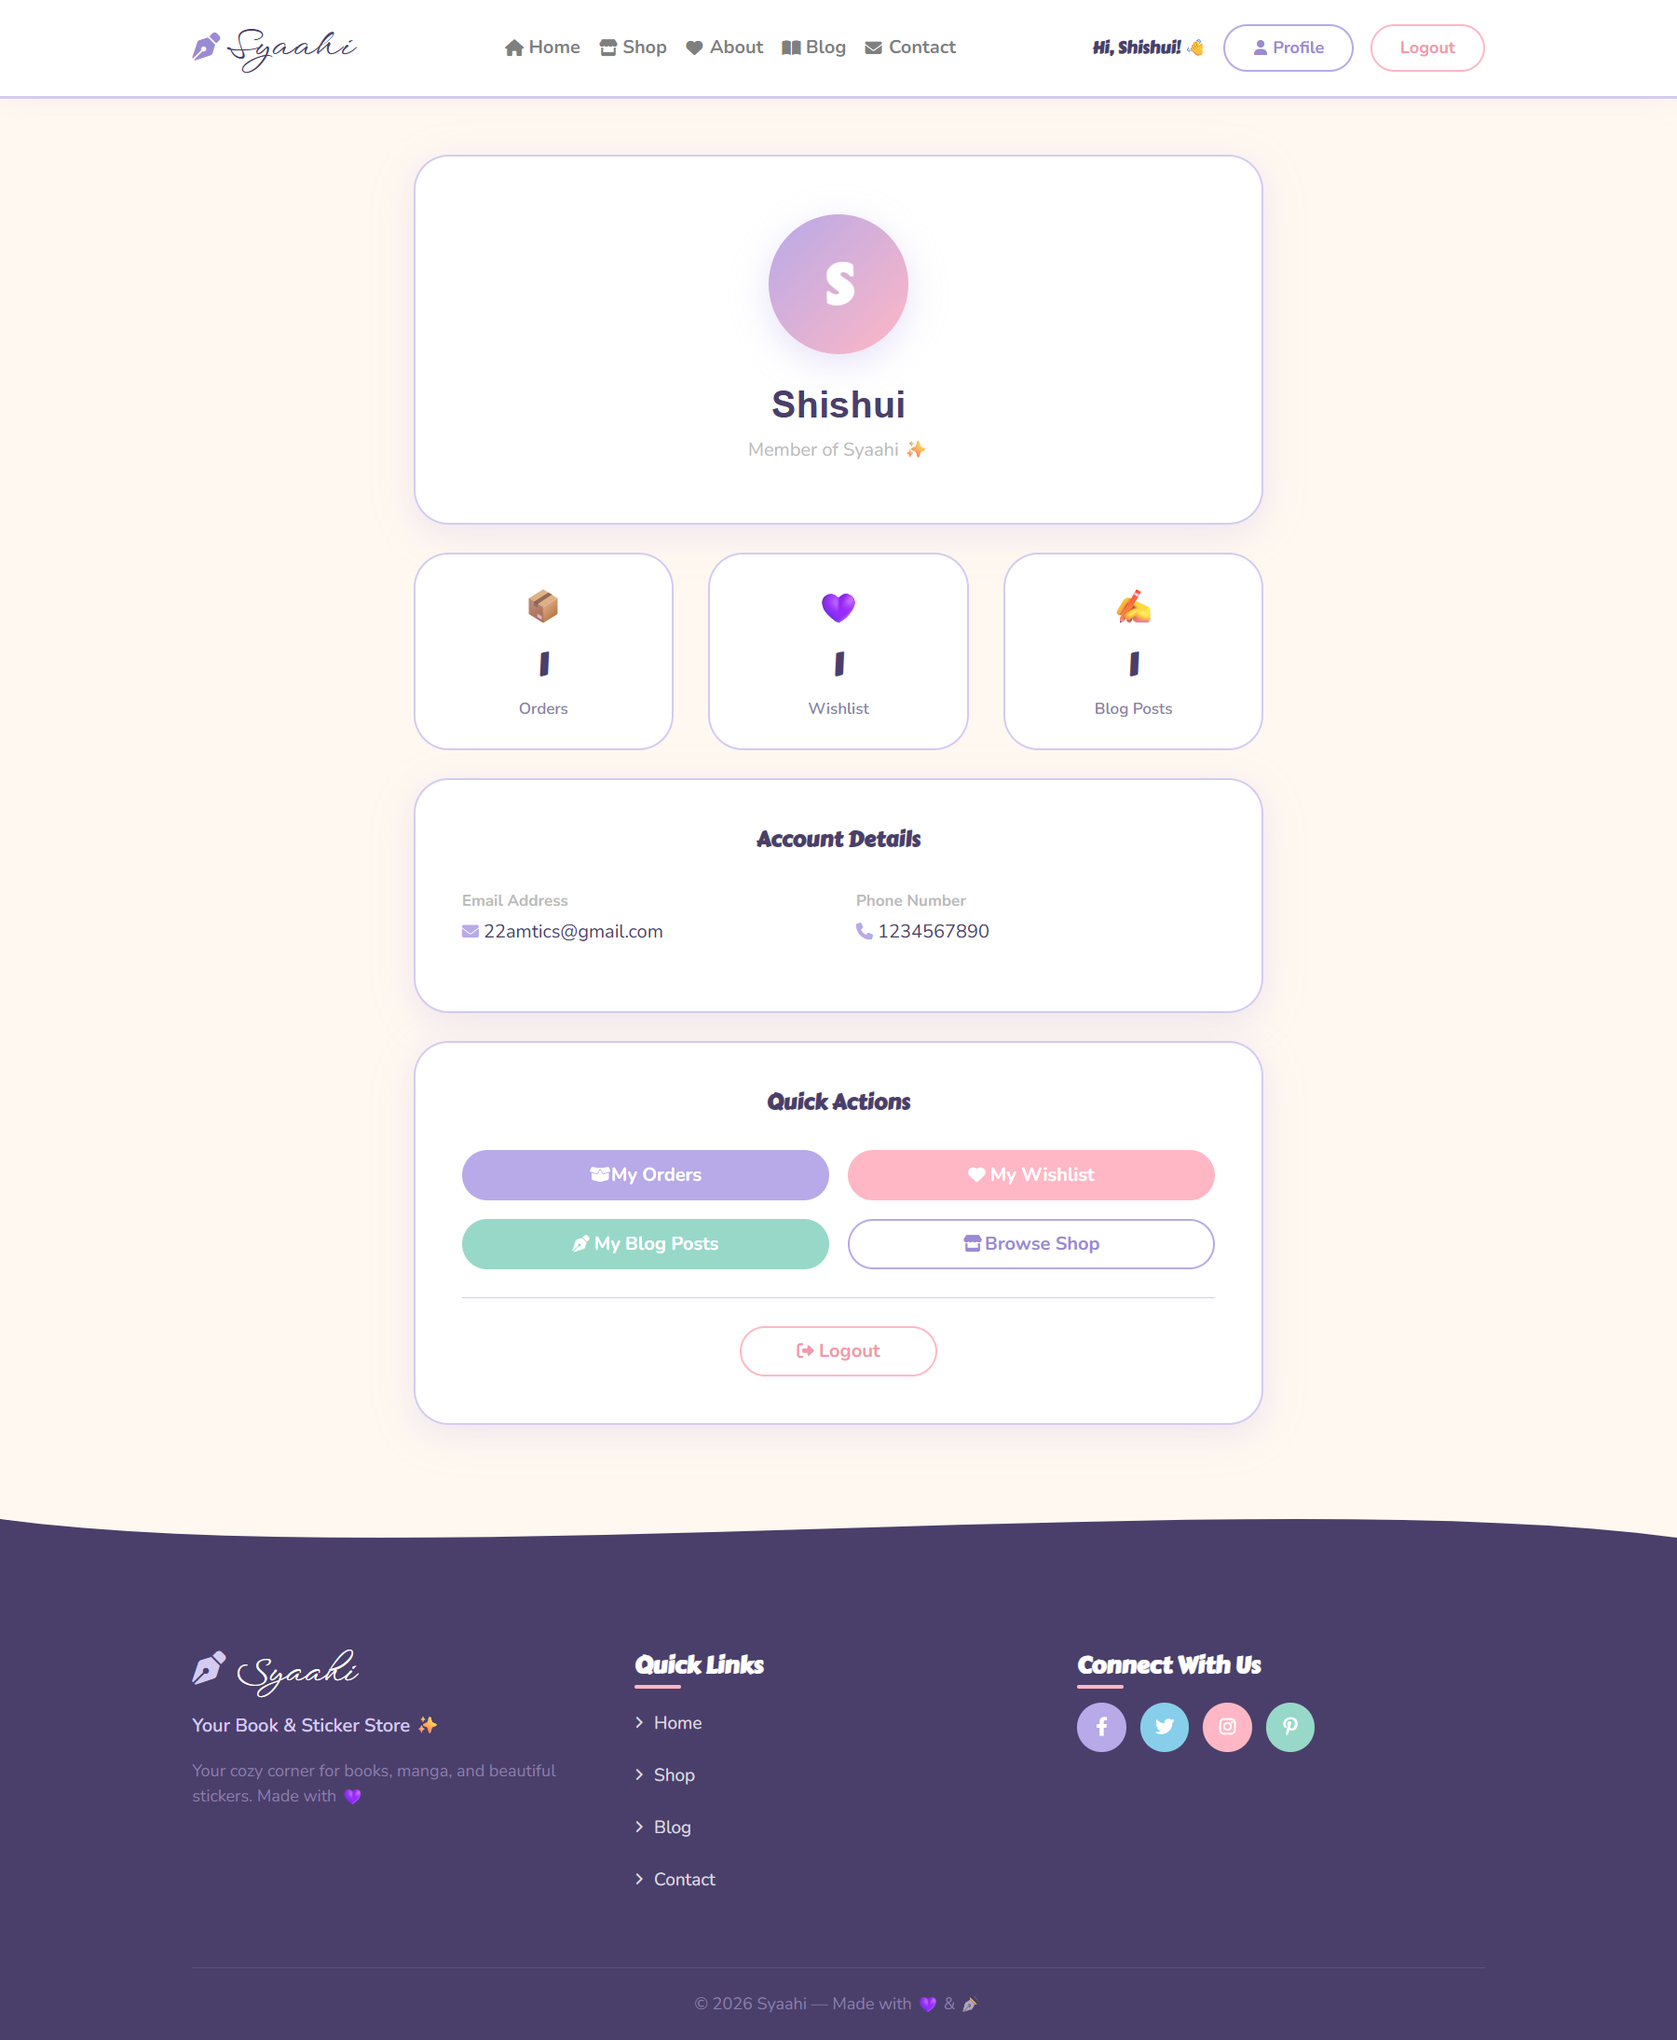
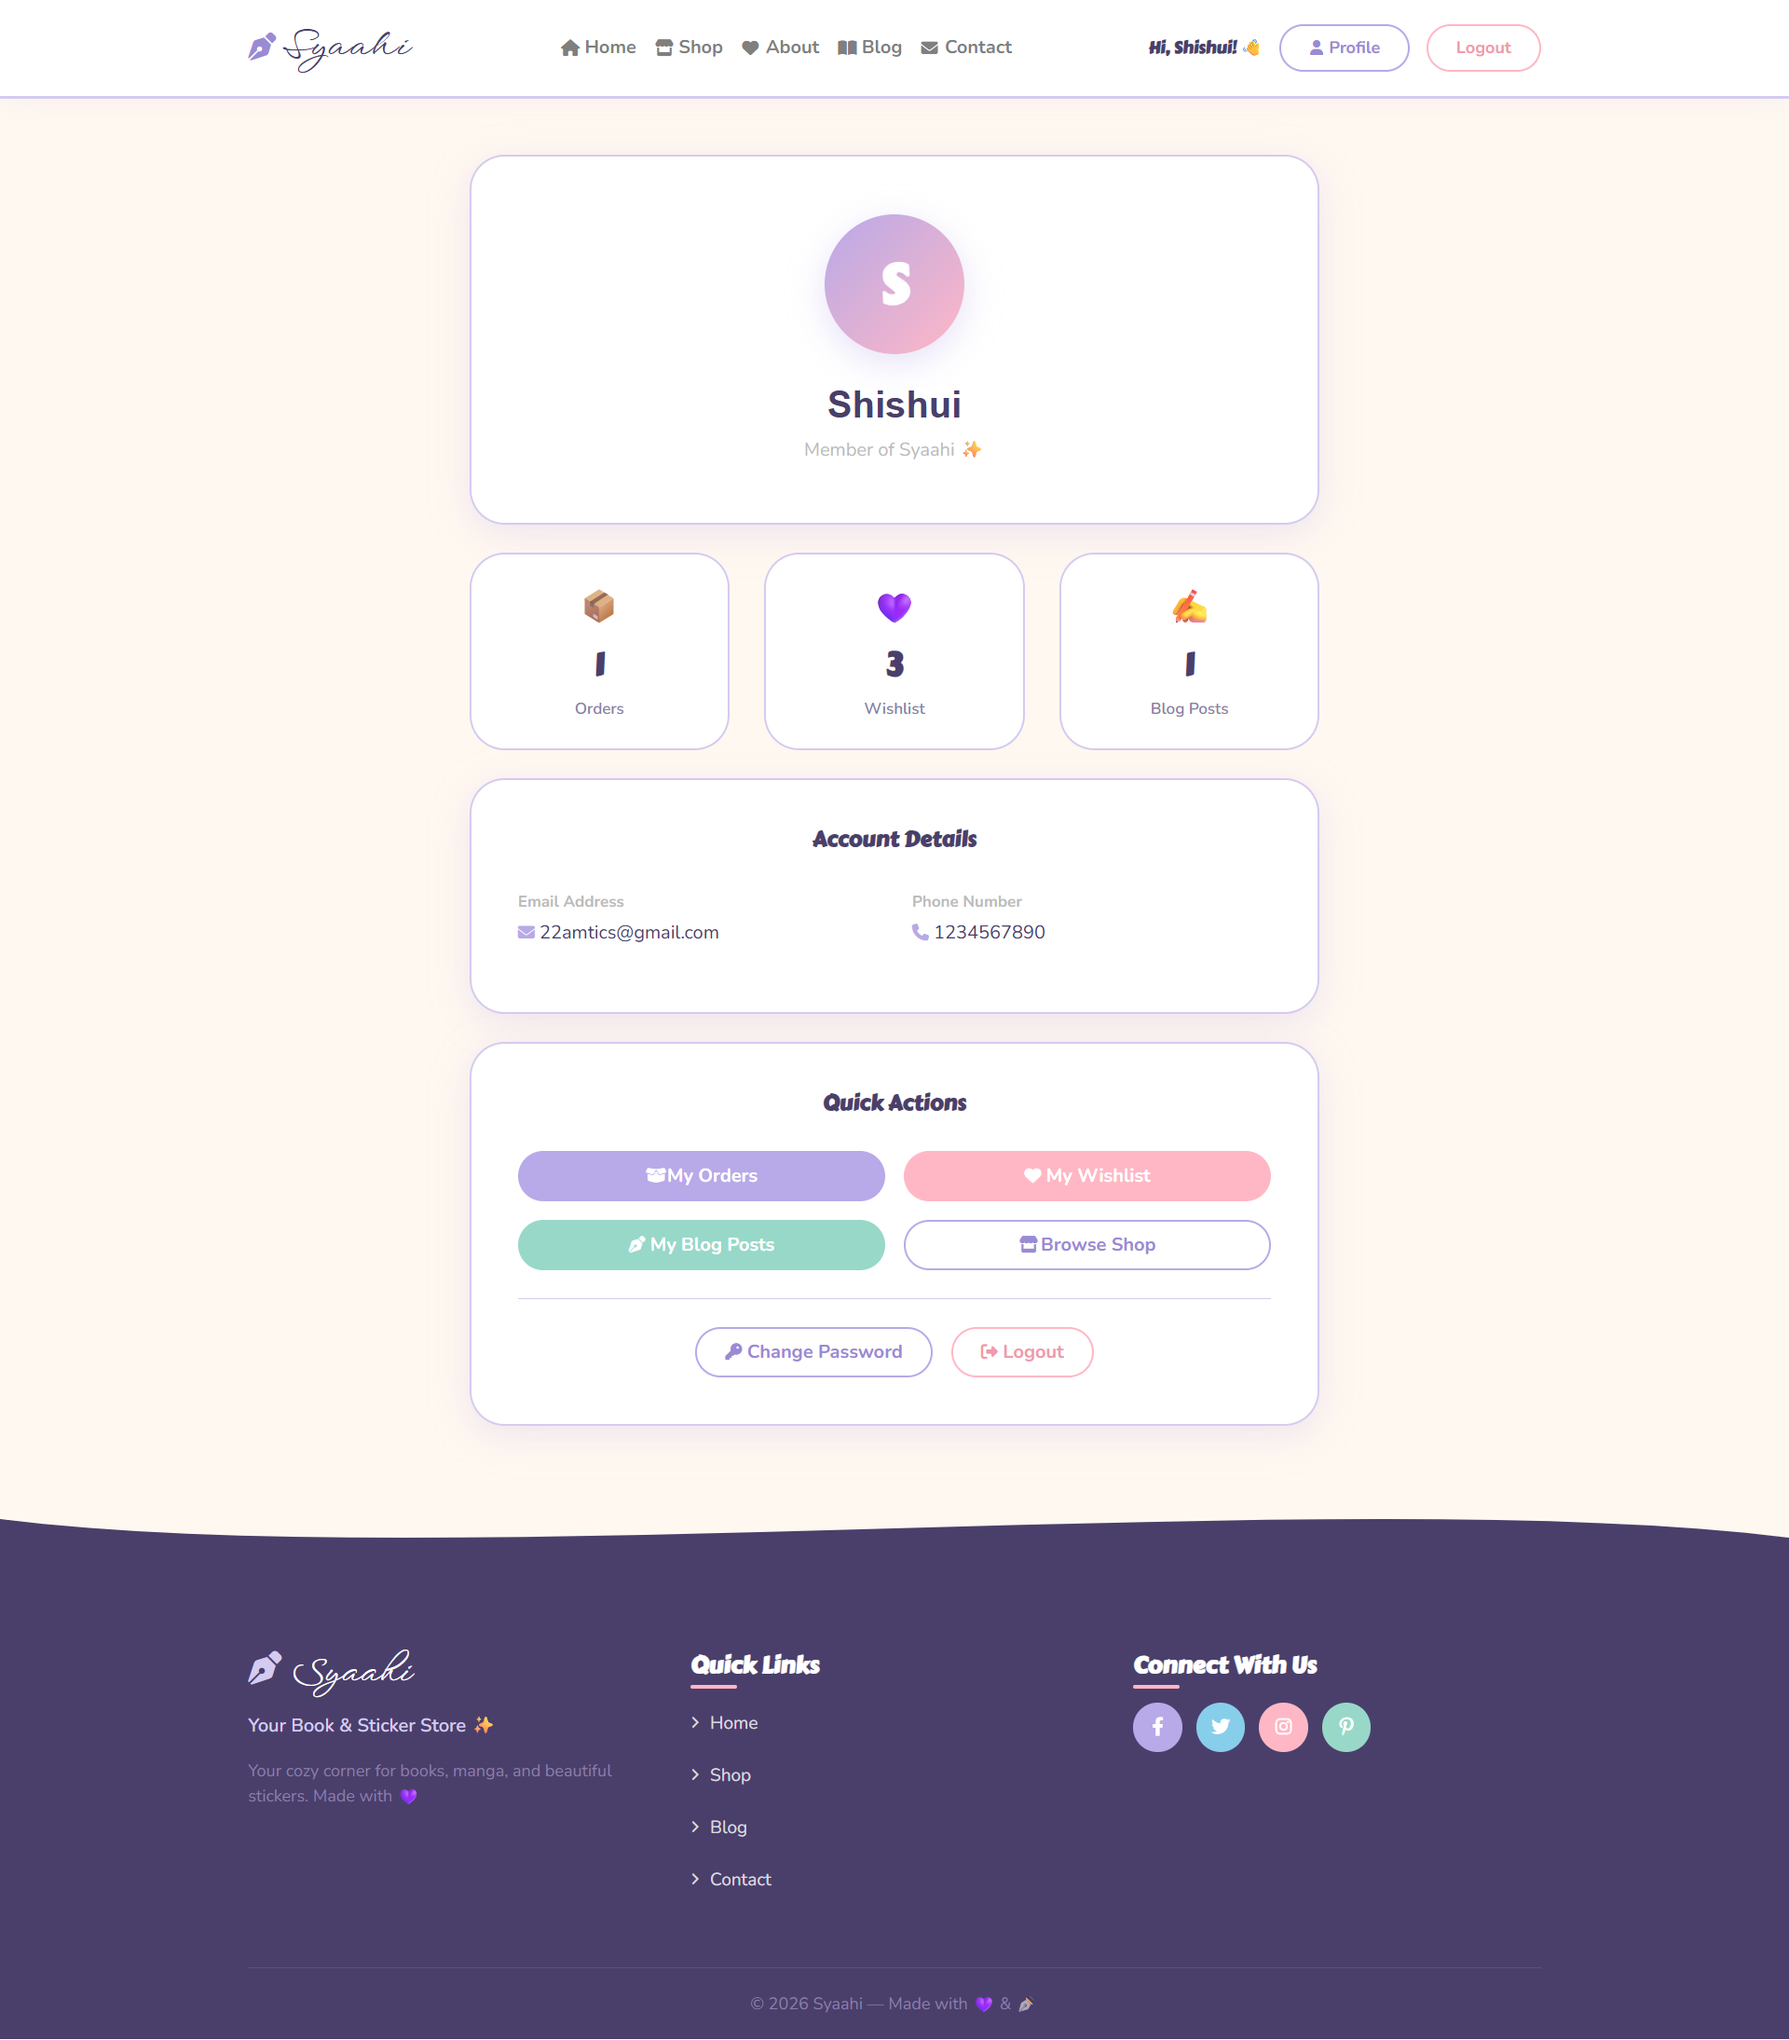
Organize screenshots in README and add delete-blog.png

diff --git a/README.md b/README.md
@@ -124,171 +124,15 @@ If you have any questions or suggestions, feel free to contact me. I'd be happy 
 ## 🖥 Screenshots
 
 <details>
-<summary><b>Click to view all 29 Screenshots! 📸</b></summary>
+<summary><b>Click to view all 30 Screenshots! 📸</b></summary>
 
 <div align="center">
   <table>
     <tr>
-      <td align="center">
-        <img src="src/assets/img/screenshots/about.png" alt="ABOUT" width="400">
-        <br/>
-        <em>ABOUT</em>
-      </td>
-      <td align="center">
-        <img src="src/assets/img/screenshots/admin-add-categories.png" alt="ADMIN ADD CATEGORIES" width="400">
-        <br/>
-        <em>ADMIN ADD CATEGORIES</em>
-      </td>
-    </tr>
-    <tr>
-      <td align="center">
-        <img src="src/assets/img/screenshots/admin-addproduct.png" alt="ADMIN ADDPRODUCT" width="400">
-        <br/>
-        <em>ADMIN ADDPRODUCT</em>
-      </td>
-      <td align="center">
-        <img src="src/assets/img/screenshots/admin-admin.png" alt="ADMIN ADMIN" width="400">
-        <br/>
-        <em>ADMIN ADMIN</em>
-      </td>
-    </tr>
-    <tr>
-      <td align="center">
-        <img src="src/assets/img/screenshots/admin-categories-deltre-popup.png" alt="ADMIN CATEGORIES DELTRE POPUP" width="400">
-        <br/>
-        <em>ADMIN CATEGORIES DELTRE POPUP</em>
-      </td>
-      <td align="center">
-        <img src="src/assets/img/screenshots/admin-categories.png" alt="ADMIN CATEGORIES" width="400">
-        <br/>
-        <em>ADMIN CATEGORIES</em>
-      </td>
-    </tr>
-    <tr>
-      <td align="center">
-        <img src="src/assets/img/screenshots/admin-comment.png" alt="ADMIN COMMENT" width="400">
-        <br/>
-        <em>ADMIN COMMENT</em>
-      </td>
-      <td align="center">
-        <img src="src/assets/img/screenshots/admin-dashboard.png" alt="ADMIN DASHBOARD" width="400">
-        <br/>
-        <em>ADMIN DASHBOARD</em>
-      </td>
-    </tr>
-    <tr>
-      <td align="center">
-        <img src="src/assets/img/screenshots/admin-editprofile.png" alt="ADMIN EDITPROFILE" width="400">
-        <br/>
-        <em>ADMIN EDITPROFILE</em>
-      </td>
-      <td align="center">
-        <img src="src/assets/img/screenshots/admin-feedback.png" alt="ADMIN FEEDBACK" width="400">
-        <br/>
-        <em>ADMIN FEEDBACK</em>
-      </td>
-    </tr>
-    <tr>
-      <td align="center">
-        <img src="src/assets/img/screenshots/admin-login.png" alt="ADMIN LOGIN" width="400">
-        <br/>
-        <em>ADMIN LOGIN</em>
-      </td>
-      <td align="center">
-        <img src="src/assets/img/screenshots/admin-product.png" alt="ADMIN PRODUCT" width="400">
-        <br/>
-        <em>ADMIN PRODUCT</em>
-      </td>
-    </tr>
-    <tr>
-      <td align="center">
-        <img src="src/assets/img/screenshots/admin-profile.png" alt="ADMIN PROFILE" width="400">
-        <br/>
-        <em>ADMIN PROFILE</em>
-      </td>
-      <td align="center">
-        <img src="src/assets/img/screenshots/blog-listing.png" alt="BLOG LISTING" width="400">
-        <br/>
-        <em>BLOG LISTING</em>
-      </td>
-    </tr>
-    <tr>
-      <td align="center">
-        <img src="src/assets/img/screenshots/blog-manage.png" alt="BLOG MANAGE" width="400">
-        <br/>
-        <em>BLOG MANAGE</em>
-      </td>
-      <td align="center">
-        <img src="src/assets/img/screenshots/blog-post.png" alt="BLOG POST" width="400">
-        <br/>
-        <em>BLOG POST</em>
-      </td>
-    </tr>
-    <tr>
-      <td align="center">
-        <img src="src/assets/img/screenshots/cart.png" alt="CART" width="400">
-        <br/>
-        <em>CART</em>
-      </td>
-      <td align="center">
-        <img src="src/assets/img/screenshots/change-password.png" alt="CHANGE PASSWORD" width="400">
-        <br/>
-        <em>CHANGE PASSWORD</em>
-      </td>
-    </tr>
-    <tr>
-      <td align="center">
-        <img src="src/assets/img/screenshots/checkout.png" alt="CHECKOUT" width="400">
-        <br/>
-        <em>CHECKOUT</em>
-      </td>
-      <td align="center">
-        <img src="src/assets/img/screenshots/contact.png" alt="CONTACT" width="400">
-        <br/>
-        <em>CONTACT</em>
-      </td>
-    </tr>
-    <tr>
-      <td align="center">
-        <img src="src/assets/img/screenshots/forgot-password.png" alt="FORGOT PASSWORD" width="400">
-        <br/>
-        <em>FORGOT PASSWORD</em>
-      </td>
-      <td align="center">
+      <td align="center" rowspan="2">
         <img src="src/assets/img/screenshots/homepage.png" alt="HOMEPAGE" width="400">
         <br/>
         <em>HOMEPAGE</em>
-      </td>
-    </tr>
-    <tr>
-      <td align="center">
-        <img src="src/assets/img/screenshots/login.png" alt="LOGIN" width="400">
-        <br/>
-        <em>LOGIN</em>
-      </td>
-      <td align="center">
-        <img src="src/assets/img/screenshots/orders.png" alt="ORDERS" width="400">
-        <br/>
-        <em>ORDERS</em>
-      </td>
-    </tr>
-    <tr>
-      <td align="center">
-        <img src="src/assets/img/screenshots/product-detail.png" alt="PRODUCT DETAIL" width="400">
-        <br/>
-        <em>PRODUCT DETAIL</em>
-      </td>
-      <td align="center">
-        <img src="src/assets/img/screenshots/profile.png" alt="PROFILE" width="400">
-        <br/>
-        <em>PROFILE</em>
-      </td>
-    </tr>
-    <tr>
-      <td align="center">
-        <img src="src/assets/img/screenshots/register.png" alt="REGISTER" width="400">
-        <br/>
-        <em>REGISTER</em>
       </td>
       <td align="center">
         <img src="src/assets/img/screenshots/shop.png" alt="SHOP" width="400">
@@ -298,11 +142,173 @@ If you have any questions or suggestions, feel free to contact me. I'd be happy 
     </tr>
     <tr>
       <td align="center">
+        <img src="src/assets/img/screenshots/about.png" alt="ABOUT" width="400">
+        <br/>
+        <em>ABOUT</em>
+      </td>
+    </tr>
+    <tr>
+      <td align="center">
+        <img src="src/assets/img/screenshots/product-detail.png" alt="PRODUCT DETAIL" width="400">
+        <br/>
+        <em>PRODUCT DETAIL</em>
+      </td>
+      <td align="center">
+        <img src="src/assets/img/screenshots/contact.png" alt="CONTACT" width="400">
+        <br/>
+        <em>CONTACT</em>
+      </td>
+    </tr>
+    <tr>
+      <td align="center">
+        <img src="src/assets/img/screenshots/blog-listing.png" alt="BLOG LISTING" width="400">
+        <br/>
+        <em>BLOG LISTING</em>
+      </td>
+      <td align="center">
+        <img src="src/assets/img/screenshots/blog-manage.png" alt="BLOG MANAGE" width="400">
+        <br/>
+        <em>BLOG MANAGE</em>
+      </td>
+    </tr>
+    <tr>
+      <td align="center">
+        <img src="src/assets/img/screenshots/blog-post.png" alt="BLOG POST" width="400">
+        <br/>
+        <em>BLOG POST</em>
+      </td>
+      <td align="center">
+        <img src="src/assets/img/screenshots/profile.png" alt="PROFILE" width="400">
+        <br/>
+        <em>PROFILE</em>
+      </td>
+    </tr>
+    <tr>
+      <td align="center">
         <img src="src/assets/img/screenshots/wishlist.png" alt="WISHLIST" width="400">
         <br/>
         <em>WISHLIST</em>
       </td>
-      <td></td>
+      <td align="center">
+        <img src="src/assets/img/screenshots/orders.png" alt="ORDERS" width="400">
+        <br/>
+        <em>ORDERS</em>
+      </td>
+    </tr>
+    <tr>
+      <td align="center">
+        <img src="src/assets/img/screenshots/cart.png" alt="CART" width="400">
+        <br/>
+        <em>CART</em>
+      </td>
+      <td align="center">
+        <img src="src/assets/img/screenshots/checkout.png" alt="CHECKOUT" width="400">
+        <br/>
+        <em>CHECKOUT</em>
+      </td>
+    </tr>
+    <tr>
+      <td align="center">
+        <img src="src/assets/img/screenshots/admin-dashboard.png" alt="ADMIN DASHBOARD" width="400">
+        <br/>
+        <em>ADMIN DASHBOARD</em>
+      </td>
+      <td align="center">
+        <img src="src/assets/img/screenshots/admin-admin.png" alt="ADMIN ADMIN" width="400">
+        <br/>
+        <em>ADMIN ADMIN</em>
+      </td>
+    </tr>
+    <tr>
+      <td align="center">
+        <img src="src/assets/img/screenshots/admin-profile.png" alt="ADMIN PROFILE" width="400">
+        <br/>
+        <em>ADMIN PROFILE</em>
+      </td>
+      <td align="center">
+        <img src="src/assets/img/screenshots/admin-editprofile.png" alt="ADMIN EDITPROFILE" width="400">
+        <br/>
+        <em>ADMIN EDITPROFILE</em>
+      </td>
+    </tr>
+    <tr>
+      <td align="center">
+        <img src="src/assets/img/screenshots/admin-categories.png" alt="ADMIN CATEGORIES" width="400">
+        <br/>
+        <em>ADMIN CATEGORIES</em>
+      </td>
+      <td align="center">
+        <img src="src/assets/img/screenshots/admin-add-categories.png" alt="ADMIN ADD CATEGORIES" width="400">
+        <br/>
+        <em>ADMIN ADD CATEGORIES</em>
+      </td>
+    </tr>
+    <tr>
+      <td align="center">
+        <img src="src/assets/img/screenshots/admin-product.png" alt="ADMIN PRODUCT" width="400">
+        <br/>
+        <em>ADMIN PRODUCT</em>
+      </td>
+      <td align="center">
+        <img src="src/assets/img/screenshots/admin-addproduct.png" alt="ADMIN ADDPRODUCT" width="400">
+        <br/>
+        <em>ADMIN ADDPRODUCT</em>
+      </td>
+    </tr>
+    <tr>
+    <td align="center">
+        <img src="src/assets/img/screenshots/admin-comment.png" alt="ADMIN COMMENT" width="400">
+        <br/>
+        <em>ADMIN COMMENT</em>
+      </td>
+      <td align="center">
+        <img src="src/assets/img/screenshots/admin-feedback.png" alt="ADMIN FEEDBACK" width="400">
+        <br/>
+        <em>ADMIN FEEDBACK</em>
+      </td>
+    </tr>
+    <tr>
+      <td align="center">
+        <img src="src/assets/img/screenshots/login.png" alt="LOGIN" width="400">
+        <br/>
+        <em>LOGIN</em>
+      </td>
+      <td align="center">
+        <img src="src/assets/img/screenshots/forgot-password.png" alt="FORGOT PASSWORD" width="400">
+        <br/>
+        <em>FORGOT PASSWORD</em>
+      </td>
+    </tr>
+    <tr>
+      <td align="center">
+        <img src="src/assets/img/screenshots/register.png" alt="REGISTER" width="400">
+        <br/>
+        <em>REGISTER</em>
+      </td>
+      <td align="center">
+        <img src="src/assets/img/screenshots/admin-login.png" alt="ADMIN LOGIN" width="400">
+        <br/>
+        <em>ADMIN LOGIN</em>
+      </td>
+    </tr>
+    <tr>
+      <td align="center" rowspan="2">
+        <img src="src/assets/img/screenshots/change-password.png" alt="CHANGE PASSWORD" width="400">
+        <br/>
+        <em>CHANGE PASSWORD</em>
+      </td>
+      <td align="center">
+        <img src="src/assets/img/screenshots/admin-categories-deltre-popup.png" alt="ADMIN CATEGORIES DELTRE POPUP" width="400">
+        <br/>
+        <em>ADMIN CATEGORIES DELTRE POPUP</em>
+      </td>
+    </tr>
+    <tr>
+      <td align="center" rowspan="2">
+        <img src="src/assets/img/screenshots/delete-blog.png" alt="DELETE BLOG POPUP" width="300">
+        <br/>
+        <em>DELETE BLOG POPUP</em>
+      </td>
     </tr>
   </table>
 </div>
